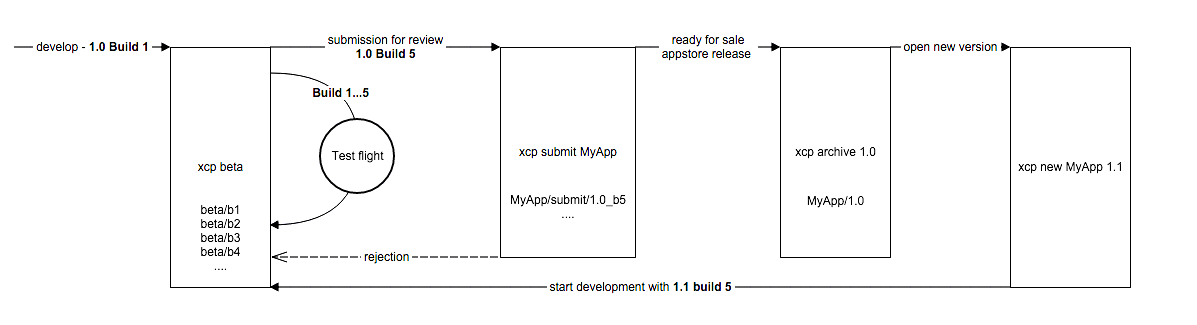
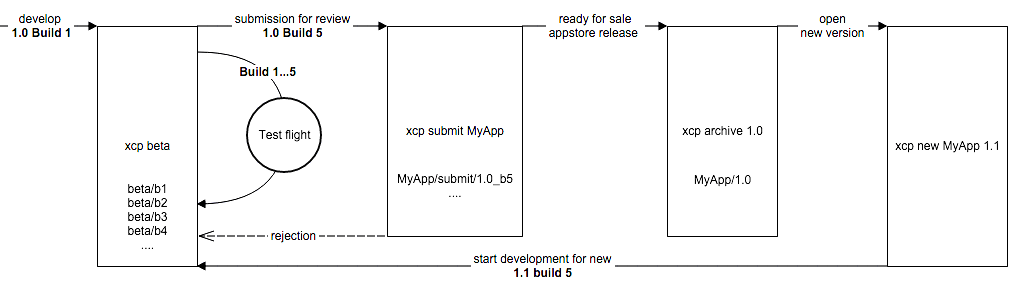
add flow chart + Makefile

diff --git a/README.md b/README.md
@@ -2,6 +2,8 @@
 
 The most simplest, safe, and config-zero git workflow for real Xcode project. Current working content is safe from conflict or loss.
 
+![flow](https://raw.githubusercontent.com/metasmile/git-xcp/master/git-xcp.png)
+
 # Install
 
 ```
